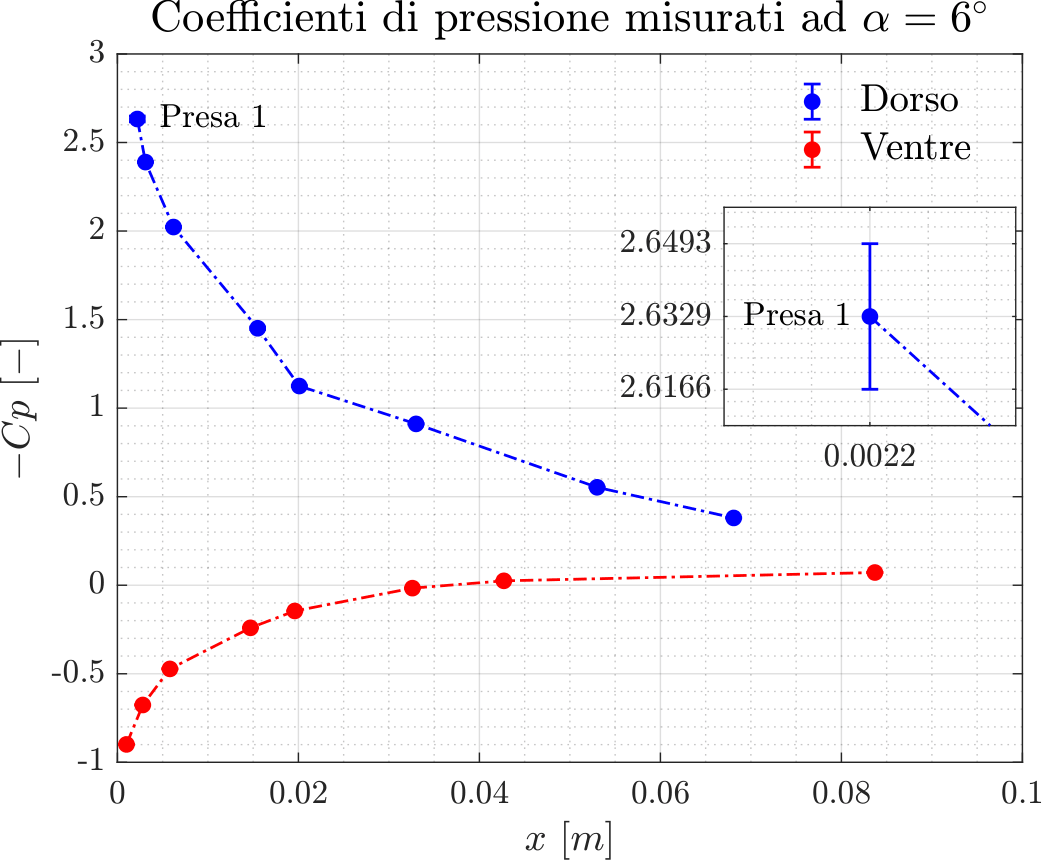
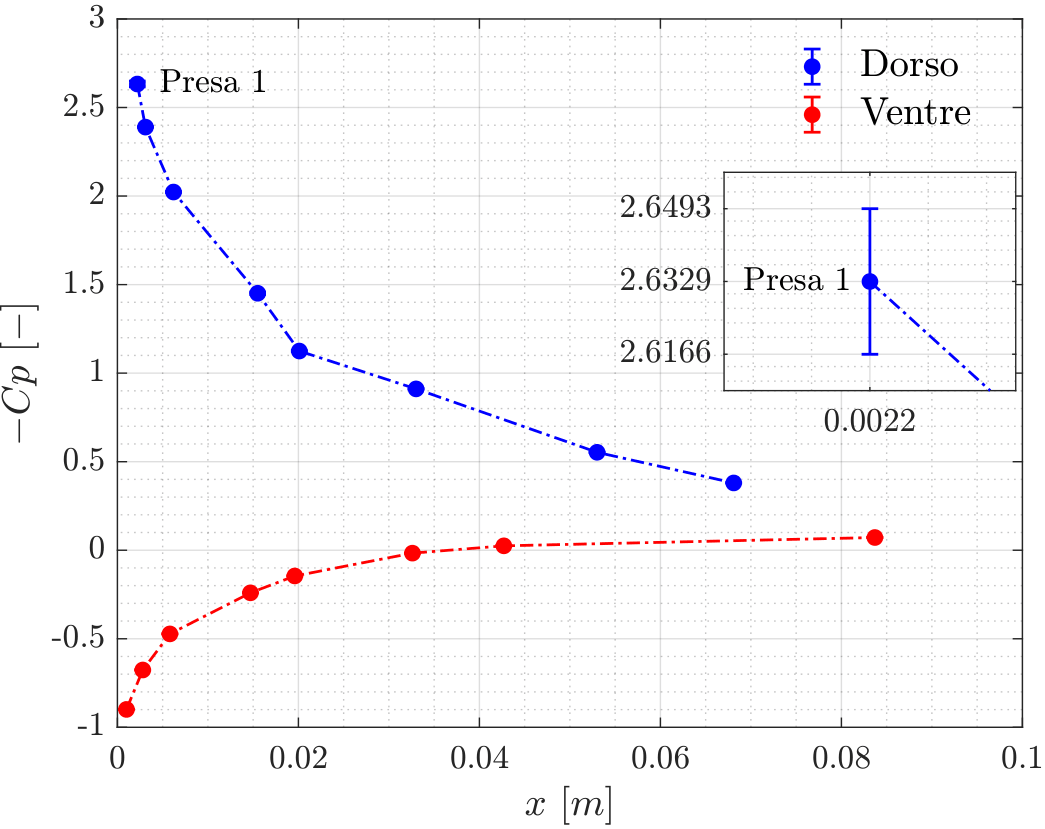
Updates

diff --git a/_portfolio/4_FluidoSperim.md b/_portfolio/4_FluidoSperim.md
@@ -363,9 +363,17 @@ figure.zoomable img {
     The objective is to bridge the gap between theoretical aerodynamics and practice, emphasizing <b>measurement techniques</b>, <b>data processing</b>, and <b>physical interpretation</b>.
   </p>
 
+  <div class="notice--warning">
+  <h4>⚠ Note</h4>
+  <p>
+    The technical reports are currently available in <b>Italian</b>, as required by the original coursework. 
+    An <b>English version</b> may be provided in the future.
+  </p>
+</div>
+
   <hr>
 
-  <h1>Lab 1 &mdash; Force Measurements 📊</h1>
+  <h1>Lab 1 &ndash; Force Measurements 📊</h1>
 
   <p>
     This experiment focuses on the measurement of <b>aerodynamic forces and moments</b> acting on an airfoil model using a <b>strain-gauge balance system</b>.
@@ -408,7 +416,7 @@ figure.zoomable img {
 
   <hr>
 
-  <h1>Lab 2 &mdash; Pressure Measurements & Hot-Wire Anemometry 🌡</h1>
+  <h1>Lab 2 &ndash; Pressure Measurements & Hot-Wire Anemometry 🌡</h1>
 
   <p>
     This experiment investigates the development of the <b>pressure coefficient</b> and the <b>wake structure</b> behind a lifting surface using pressure probes and hot-wire anemometry.
@@ -433,7 +441,7 @@ figure.zoomable img {
       <img src="/images/U_scia2_2.png" alt="U scia" style="width: 48%; border-radius: 4px;">
     </div>
     <div style="display: flex; justify-content: center;">
-      <img src="/images/FFT 110.png" alt="FFT scia" style="width: 100%; border-radius: 4px;">
+      <img src="/images/FFT 110.png" alt="FFT scia" style="width: 90%; border-radius: 4px;">
     </div>
     <figcaption><b>Figure 2:</b> Top: pressure coefficient distribution at \(\alpha=6^\circ\) (left) and wake velocity profile at \(\alpha=8^\circ\) (right). Bottom: spectral content of velocity fluctuations (FFT) at \(\alpha=25^\circ\).
     <br><b>Image Credit:</b> Marco Zappoli</figcaption>
@@ -449,7 +457,7 @@ figure.zoomable img {
 
   <hr>
 
-  <h1>Lab 3 &mdash; Particle Image Velocimetry (PIV) 🌀</h1> 
+  <h1>Lab 3 &ndash; Particle Image Velocimetry (PIV) 🌀</h1> 
 
   <p>
     This activity focuses on the development of a <b>MATLAB-based algorithm</b> for processing <b>PIV measurements</b>, applied to the analysis of the flow generated by two side-by-side rotors in vortex ring state conditions.
